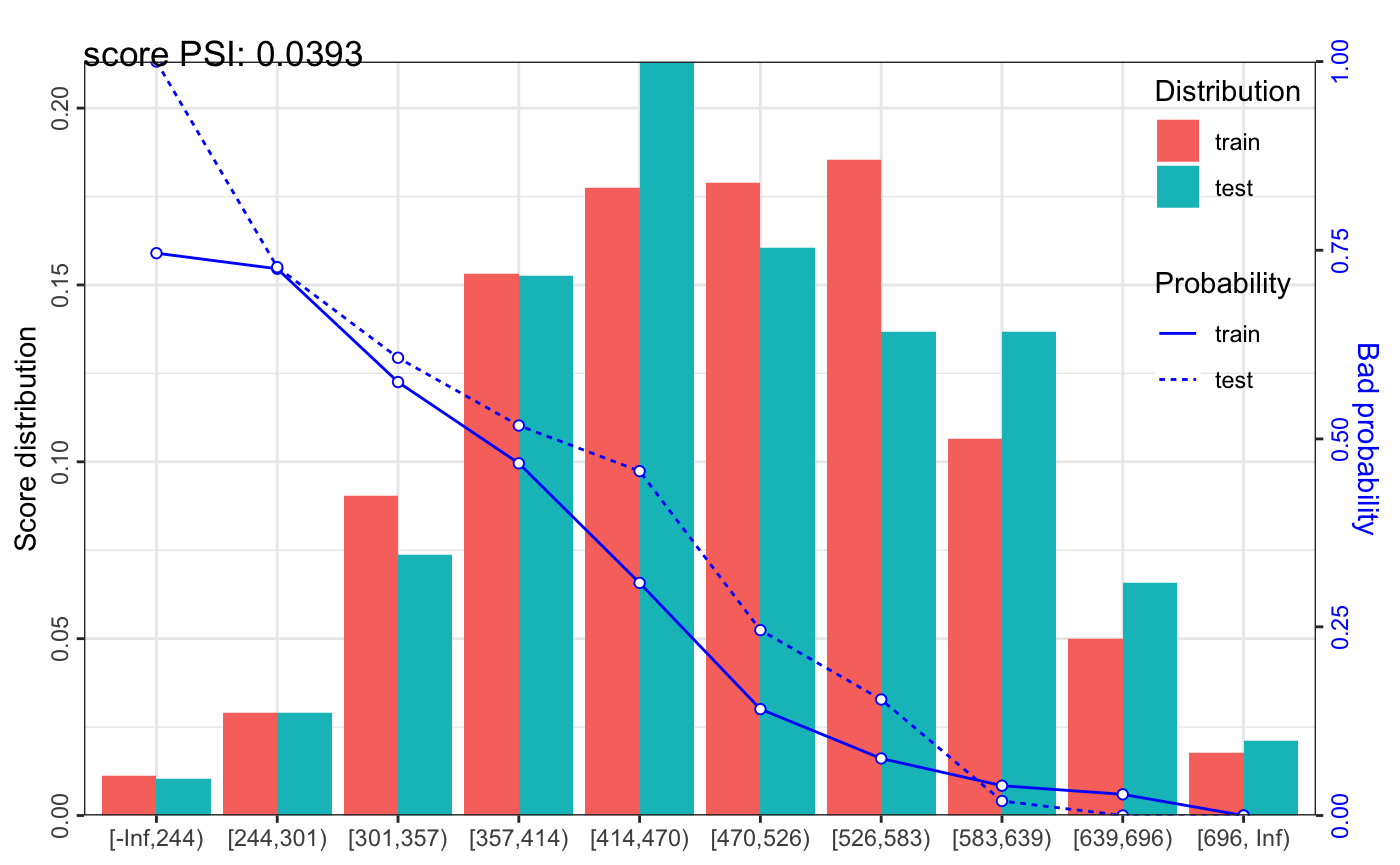
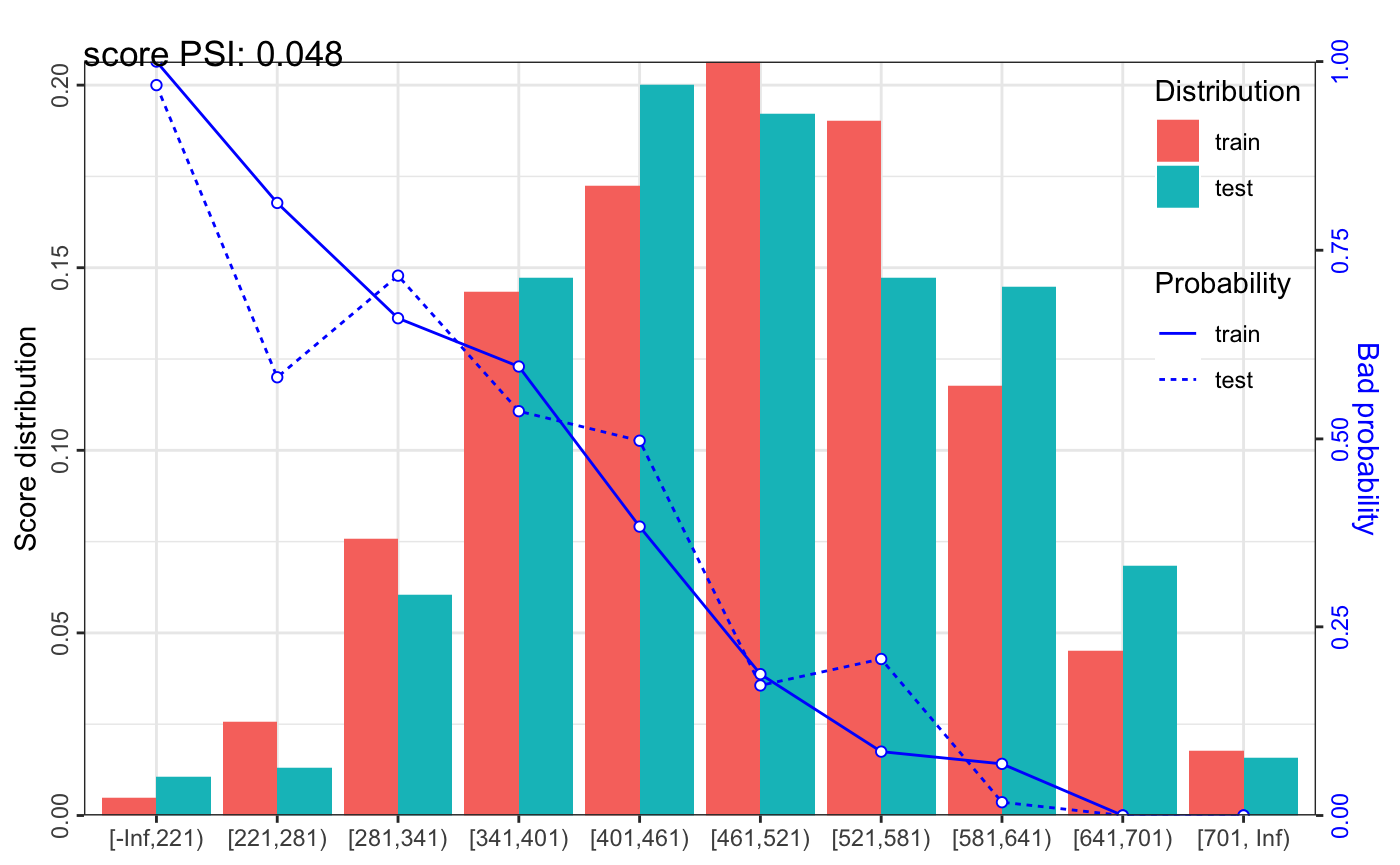
breaks_by gains_table/perf_psi

diff --git a/docs/reference/gains_table.html b/docs/reference/gains_table.html
@@ -145,7 +145,7 @@
     </div>
 
     <pre class="usage"><span class='fu'>gains_table</span>(<span class='no'>score</span>, <span class='no'>label</span>, <span class='kw'>bin_num</span> <span class='kw'>=</span> <span class='fl'>10</span>, <span class='kw'>method</span> <span class='kw'>=</span> <span class='st'>"freq"</span>, <span class='kw'>width_by</span> <span class='kw'>=</span> <span class='kw'>NULL</span>,
-  <span class='kw'>positive</span> <span class='kw'>=</span> <span class='st'>"bad|1"</span>, <span class='no'>...</span>)</pre>
+  <span class='kw'>breaks_by</span> <span class='kw'>=</span> <span class='kw'>NULL</span>, <span class='kw'>positive</span> <span class='kw'>=</span> <span class='st'>"bad|1"</span>, <span class='no'>...</span>)</pre>
 
     <h2 class="hasAnchor" id="arguments"><a class="anchor" href="#arguments"></a>Arguments</h2>
     <table class="ref-arguments">
@@ -169,6 +169,10 @@
     <tr>
       <th>width_by</th>
       <td><p>Number, increment of the score breaks when method is set as 'width'. If it is provided the above parameter bin_num will not be used. Defaults to NULL.</p></td>
+    </tr>
+    <tr>
+      <th>breaks_by</th>
+      <td><p>The name of data set to create breakpoints. Defaults to the first data set. Or numeric values to set breakpoints manually.</p></td>
     </tr>
     <tr>
       <th>positive</th>
@@ -285,7 +289,7 @@
 <span class='co'># Example I # only total psi</span>
 <span class='no'>psi1</span> <span class='kw'>=</span> <span class='fu'><a href='perf_psi.html'>perf_psi</a></span>(<span class='kw'>score</span> <span class='kw'>=</span> <span class='no'>score_list</span>, <span class='kw'>label</span> <span class='kw'>=</span> <span class='no'>label_list</span>)
 <span class='no'>psi1</span>$<span class='no'>psi</span>  <span class='co'># psi data frame</span></div><div class='output co'>#&gt;    variable    dataset        psi
-#&gt; 1:    score train_test 0.05703752</div><div class='input'><span class='no'>psi1</span>$<span class='no'>pic</span>  <span class='co'># pic of score distribution</span></div><div class='output co'>#&gt; $score</div><div class='img'><img src='gains_table-3.png' alt='' width='700' height='433' /></div><div class='output co'>#&gt; </div><div class='input'>
+#&gt; 1:    score train_test 0.03371411</div><div class='input'><span class='no'>psi1</span>$<span class='no'>pic</span>  <span class='co'># pic of score distribution</span></div><div class='output co'>#&gt; $score</div><div class='img'><img src='gains_table-3.png' alt='' width='700' height='433' /></div><div class='output co'>#&gt; </div><div class='input'>
 <span class='co'># Example II # both total and variable psi</span>
 <span class='no'>psi2</span> <span class='kw'>=</span> <span class='fu'><a href='perf_psi.html'>perf_psi</a></span>(<span class='kw'>score</span> <span class='kw'>=</span> <span class='no'>score_list</span>, <span class='kw'>label</span> <span class='kw'>=</span> <span class='no'>label_list</span>)
 <span class='co'># psi2$psi  # psi data frame</span>

diff --git a/docs/reference/perf_eva.html b/docs/reference/perf_eva.html
@@ -312,7 +312,7 @@
 <span class='co'># Example I # only total psi</span>
 <span class='no'>psi1</span> <span class='kw'>=</span> <span class='fu'><a href='perf_psi.html'>perf_psi</a></span>(<span class='kw'>score</span> <span class='kw'>=</span> <span class='no'>score_list</span>, <span class='kw'>label</span> <span class='kw'>=</span> <span class='no'>label_list</span>)
 <span class='no'>psi1</span>$<span class='no'>psi</span>  <span class='co'># psi data frame</span></div><div class='output co'>#&gt;    variable    dataset        psi
-#&gt; 1:    score train_test 0.05703752</div><div class='input'><span class='no'>psi1</span>$<span class='no'>pic</span>  <span class='co'># pic of score distribution</span></div><div class='output co'>#&gt; $score</div><div class='img'><img src='perf_eva-3.png' alt='' width='700' height='433' /></div><div class='output co'>#&gt; </div><div class='input'>
+#&gt; 1:    score train_test 0.03371411</div><div class='input'><span class='no'>psi1</span>$<span class='no'>pic</span>  <span class='co'># pic of score distribution</span></div><div class='output co'>#&gt; $score</div><div class='img'><img src='perf_eva-3.png' alt='' width='700' height='433' /></div><div class='output co'>#&gt; </div><div class='input'>
 <span class='co'># Example II # both total and variable psi</span>
 <span class='no'>psi2</span> <span class='kw'>=</span> <span class='fu'><a href='perf_psi.html'>perf_psi</a></span>(<span class='kw'>score</span> <span class='kw'>=</span> <span class='no'>score_list</span>, <span class='kw'>label</span> <span class='kw'>=</span> <span class='no'>label_list</span>)
 <span class='co'># psi2$psi  # psi data frame</span>

diff --git a/docs/reference/perf_psi.html b/docs/reference/perf_psi.html
@@ -292,7 +292,7 @@
 <span class='co'># Example I # only total psi</span>
 <span class='no'>psi1</span> <span class='kw'>=</span> <span class='fu'>perf_psi</span>(<span class='kw'>score</span> <span class='kw'>=</span> <span class='no'>score_list</span>, <span class='kw'>label</span> <span class='kw'>=</span> <span class='no'>label_list</span>)
 <span class='no'>psi1</span>$<span class='no'>psi</span>  <span class='co'># psi data frame</span></div><div class='output co'>#&gt;    variable    dataset        psi
-#&gt; 1:    score train_test 0.05703752</div><div class='input'><span class='no'>psi1</span>$<span class='no'>pic</span>  <span class='co'># pic of score distribution</span></div><div class='output co'>#&gt; $score</div><div class='img'><img src='perf_psi-3.png' alt='' width='700' height='433' /></div><div class='output co'>#&gt; </div><div class='input'><span class='co'># modify colors</span>
+#&gt; 1:    score train_test 0.03371411</div><div class='input'><span class='no'>psi1</span>$<span class='no'>pic</span>  <span class='co'># pic of score distribution</span></div><div class='output co'>#&gt; $score</div><div class='img'><img src='perf_psi-3.png' alt='' width='700' height='433' /></div><div class='output co'>#&gt; </div><div class='input'><span class='co'># modify colors</span>
 <span class='co'># perf_psi(score = score_list, label = label_list,</span>
 <span class='co'>#          line_color='#FC8D59', bar_color=c('#FFFFBF', '#99D594'))</span>
 

diff --git a/docs/articles/demo.html b/docs/articles/demo.html
@@ -91,13 +91,13 @@
 
       
 
-      </header><div class="row">
+      </header><script src="demo_files/accessible-code-block-0.0.1/empty-anchor.js"></script><div class="row">
   <div class="col-md-9 contents">
     <div class="page-header toc-ignore">
       <h1 data-toc-skip>Developing a Credit Scorecard</h1>
                         <h4 class="author">Shichen Xie, Michael Thomas</h4>
             
-            <h4 class="date">2020-07-20</h4>
+            <h4 class="date">2020-08-09</h4>
       
       <small class="dont-index">Source: <a href="https://github.com/ShichenXie/scorecard/blob/master/vignettes/demo.Rmd"><code>vignettes/demo.Rmd</code></a></small>
       <div class="hidden name"><code>demo.Rmd</code></div>
@@ -228,8 +228,8 @@
 <pre><code>#&gt; 
 #&gt; 
 #&gt; $psi
-#&gt;    variable    dataset        psi
-#&gt; 1:    score train_test 0.03934718</code></pre>
+#&gt;    variable    dataset      psi
+#&gt; 1:    score train_test 0.048007</code></pre>
 </div>
 </div>
   </div>

diff --git a/docs/articles/demo_files/accessible-code-block-0.0.1/empty-anchor.js b/docs/articles/demo_files/accessible-code-block-0.0.1/empty-anchor.js
@@ -1,0 +1,15 @@
+// Hide empty <a> tag within highlighted CodeBlock for screen reader accessibility (see https://github.com/jgm/pandoc/issues/6352#issuecomment-626106786) -->
+// v0.0.1
+// Written by JooYoung Seo (jooyoung@psu.edu) and Atsushi Yasumoto on June 1st, 2020.
+
+document.addEventListener('DOMContentLoaded', function() {
+  const codeList = document.getElementsByClassName("sourceCode");
+  for (var i = 0; i < codeList.length; i++) {
+    var linkList = codeList[i].getElementsByTagName('a');
+    for (var j = 0; j < linkList.length; j++) {
+      if (linkList[j].innerHTML === "") {
+        linkList[j].setAttribute('aria-hidden', 'true');
+      }
+    }
+  }
+});

diff --git a/docs/news/index.html b/docs/news/index.html
@@ -144,7 +144,8 @@
 </h1>
 <ul>
 <li>added a parameter in scorecard/scorecard2 function to round score</li>
-<li>added paramerters show_varval/show_lineval in woebin_plot function to show bar value or line value</li>
+<li>added parameters show_varval/show_lineval in woebin_plot function to show bar value or line value</li>
+<li>added a parameter breaks_by in perf_psi/gains_table function to identify the data set to create breakpoints.</li>
 </ul>
 </div>
     <div id="scorecard-030" class="section level1">
